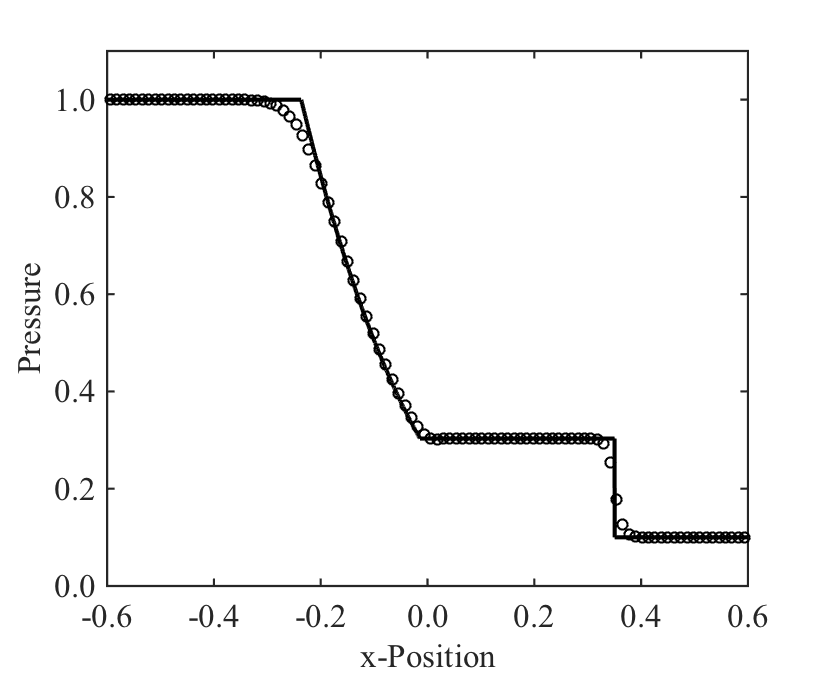
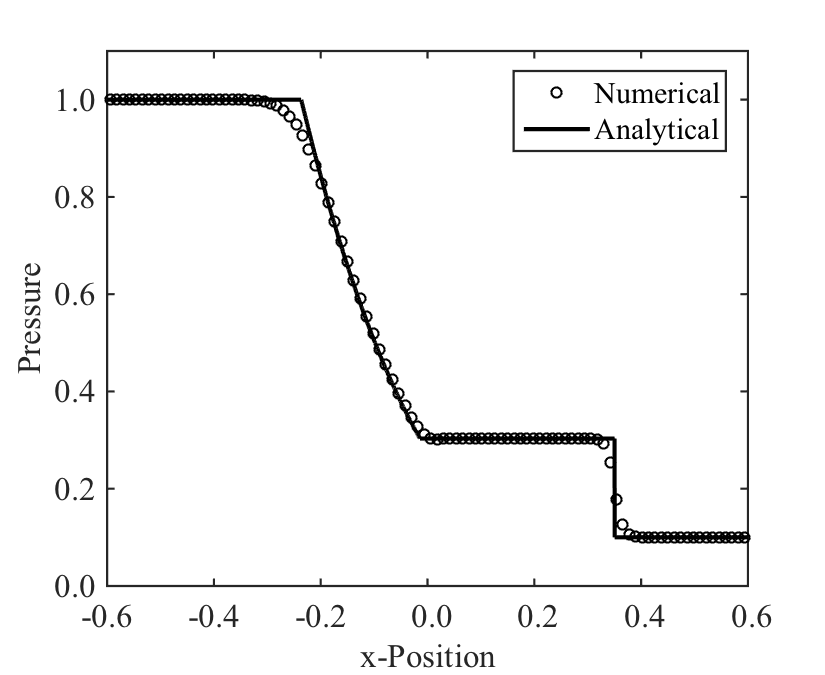
Updated matlab files. Axis profiles are revised.

diff --git a/matlab/distribution.m b/matlab/distribution.m
@@ -23,9 +23,32 @@ file = 20;
 %Grid parameter
 nx   = 100;
 XL   = 1.2;
-time = 2.0e-3*100;
+ANALYTIC = 1; %0:No,1:Yes
+time = 2.0e-3*100; %If ANALYTIC = 1, time must be set
+%Horizontal axis setting
+xrange(1)   =-0.6; xrange(2)   = 0.6;
+xTickInterval = 0.2;
+%Vertical axis setting
+rhorange(1) = 0.0; rhorange(2) = 1.1; 
+urange(1)   = 0.0; urange(2)   = 1.1;
+Prange(1)   = 0.0; Prange(2)   = 1.1;
+Trange(1)   = 0.6; Trange(2)   = 1.4;
+rhoTickInterval = 0.2;
+uTickInterval   = 0.2;
+PTickInterval   = 0.2;
+TTickInterval   = 0.2;
 %----------------------------------
 
+xTick    = xrange(1):xTickInterval:xrange(2);
+rhoTick  = rhorange(1):rhoTickInterval:rhorange(2);
+uTick    = urange(1):uTickInterval:urange(2);
+PTick    = Prange(1):PTickInterval:Prange(2);
+TTick    = Trange(1):TTickInterval:Trange(2);
+IntxTick = num2str(xTick','%2.1f\n');
+IntrhoTick = num2str(rhoTick','%2.1f\n');
+IntuTick = num2str(uTick','%2.1f\n');
+IntPTick = num2str(PTick','%2.1f\n');
+IntTTick = num2str(TTick','%2.1f\n');
 
 dx = XL/nx;
 xx = -XL/2+dx/2:dx:XL/2-dx/2;
@@ -60,65 +83,77 @@ data = sod_analytic(time,XL);
 
 %2D contour map of space potential
 plot(xx,rho,'ko','MarkerSize',5);
-hold on
-plot(data.x,data.rho,'-k','LineWidth',2);
 grid off
 hold on
-set(gca, 'XLim', [-XL/2,XL/2]);
-set(gca, 'YLim', [0,1.1]);
-set(gca,'XTick',[-0.6 -0.4 -0.2  0 0.2 0.4 0.6])
-set(gca,'XTickLabel',{'-0.6','-0.4','-0.2','0.0','0.2','0.4','0.6'})
-set(gca,'YTick',[0 0.2 0.4 0.6 0.8 1.0 1.2])
-set(gca,'YTickLabel',{'0.0','0.2','0.4','0.6','0.8','1.0','1.2'})
+set(gca, 'XLim', xrange);
+set(gca, 'YLim', rhorange);
+set(gca,'XTick',xTick)
+set(gca,'XTickLabel',IntxTick)
+set(gca,'YTick',rhoTick)
+set(gca,'YTickLabel',IntrhoTick)
 xlabel('x-Position','FontSize',16)
 ylabel('Density','FontSize',16)
+if(ANALYTIC == 1)
+   hold on
+   plot(data.x,data.rho,'-k','LineWidth',2);
+   legend('Numerical','Analytical')
+end
 saveas(figure(1),strcat(dirout,'rho.png'));
 hold off
 
 plot(xx,vel,'ko','MarkerSize',5);
-hold on
-plot(data.x,data.u,'-k','LineWidth',2);
 grid off
 hold on
-set(gca, 'XLim', [-XL/2,XL/2]);
-set(gca, 'YLim', [0,1.1]);
-set(gca,'XTick',[-0.6 -0.4 -0.2  0 0.2 0.4 0.6])
-set(gca,'XTickLabel',{'-0.6','-0.4','-0.2','0.0','0.2','0.4','0.6'})
-set(gca,'YTick',[0 0.2 0.4 0.6 0.8 1.0 1.2])
-set(gca,'YTickLabel',{'0.0','0.2','0.4','0.6','0.8','1.0','1.2'})
+set(gca, 'XLim', xrange);
+set(gca, 'YLim', urange);
+set(gca,'XTick',xTick)
+set(gca,'XTickLabel',IntxTick)
+set(gca,'YTick',uTick)
+set(gca,'YTickLabel',IntuTick)
 xlabel('x-Position','FontSize',16)
 ylabel('Velocity','FontSize',16)
+if(ANALYTIC == 1)
+   hold on
+   plot(data.x,data.u,'-k','LineWidth',2);
+   legend('Numerical','Analytical')
+end
 saveas(figure(1),strcat(dirout,'vel.png'));
 hold off
 
 plot(xx,pre,'ko','MarkerSize',5);
-hold on
-plot(data.x,data.P,'k-','LineWidth',2);
 grid off
 hold on
-set(gca, 'XLim', [-XL/2,XL/2]);
-set(gca, 'YLim', [0,1.1]);
-set(gca,'XTick',[-0.6 -0.4 -0.2  0 0.2 0.4 0.6])
-set(gca,'XTickLabel',{'-0.6','-0.4','-0.2','0.0','0.2','0.4','0.6'})
-set(gca,'YTick',[0 0.2 0.4 0.6 0.8 1.0 1.2])
-set(gca,'YTickLabel',{'0.0','0.2','0.4','0.6','0.8','1.0','1.2'})
+set(gca, 'XLim', xrange);
+set(gca, 'YLim', Prange);
+set(gca,'XTick',xTick)
+set(gca,'XTickLabel',IntxTick)
+set(gca,'YTick',PTick)
+set(gca,'YTickLabel',IntPTick)
 xlabel('x-Position','FontSize',16)
 ylabel('Pressure','FontSize',16)
+if(ANALYTIC == 1)
+   hold on
+   plot(data.x,data.P,'k-','LineWidth',2);
+   legend('Numerical','Analytical')
+end
 saveas(figure(1),strcat(dirout,'pre.png'));
 hold off
 
 plot(xx,tem,'ko','MarkerSize',5);
-hold on
-plot(data.x,data.T,'-k','LineWidth',2);
 grid off
 hold on
-set(gca, 'XLim', [-XL/2,XL/2]);
-set(gca, 'YLim', [0.6,1.2]);
-set(gca,'XTick',[-0.6 -0.4 -0.2  0 0.2 0.4 0.6])
-set(gca,'XTickLabel',{'-0.6','-0.4','-0.2','0.0','0.2','0.4','0.6'})
-set(gca,'YTick',[0 0.2 0.4 0.6 0.8 1.0 1.2])
-set(gca,'YTickLabel',{'0.0','0.2','0.4','0.6','0.8','1.0','1.2'})
+set(gca, 'XLim', xrange);
+set(gca, 'YLim', Trange);
+set(gca,'XTick',xTick)
+set(gca,'XTickLabel',IntxTick)
+set(gca,'YTick',TTick)
+set(gca,'YTickLabel',IntTTick)
 xlabel('x-Position','FontSize',16)
 ylabel('Temperature','FontSize',16)
+if(ANALYTIC == 1)
+   hold on
+   plot(data.x,data.T,'-k','LineWidth',2);
+   legend('Numerical','Analytical')
+end
 saveas(figure(1),strcat(dirout,'tem.png'));
 hold off

diff --git a/matlab/sod_analytic.m b/matlab/sod_analytic.m
@@ -1,20 +1,19 @@
 function [data] = sod_analytic(time,XL)
 %time  = 0.2;
-%Initial conditions
+%---------- Initial conditions ------------------
 gam  = 1.4;
 rho4 = 1;
 u4   = 0;
 P4   = 1;
-T4   = P4/rho4;
-a4   = sqrt(gam*P4/rho4);
-
 rho1 = 0.125;
 u1   = 0;
 P1   = 0.1;
-T1   = P4/rho1;
-a1   = sqrt(gam*P1/rho1);
 
 %------------ Shock-tube calculation ------------
+T4   = P4/rho4;
+a4   = sqrt(gam*P4/rho4);
+T1   = P4/rho1;
+a1   = sqrt(gam*P1/rho1);
 P4P1 = P4/P1;
 func = @(Ms) (P4P1-(2*gam*Ms(1)^2-(gam-1))/(gam+1) ...
     *(1-(gam-1)/(gam+1)*a1/a4*(Ms(1)-1/Ms(1)))^(-2*gam/(gam-1)))^2;
